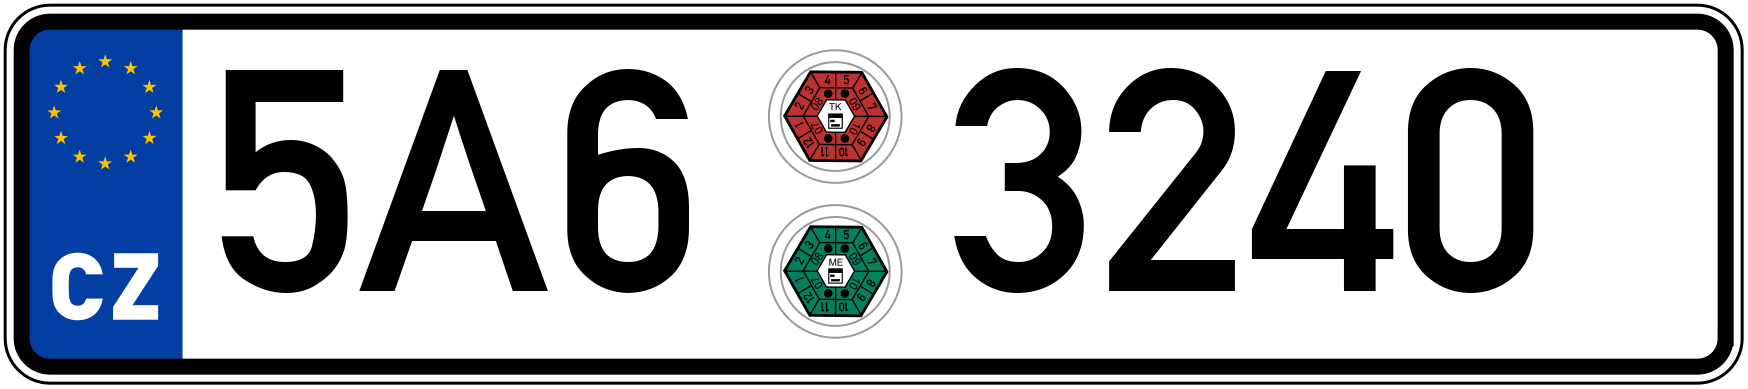
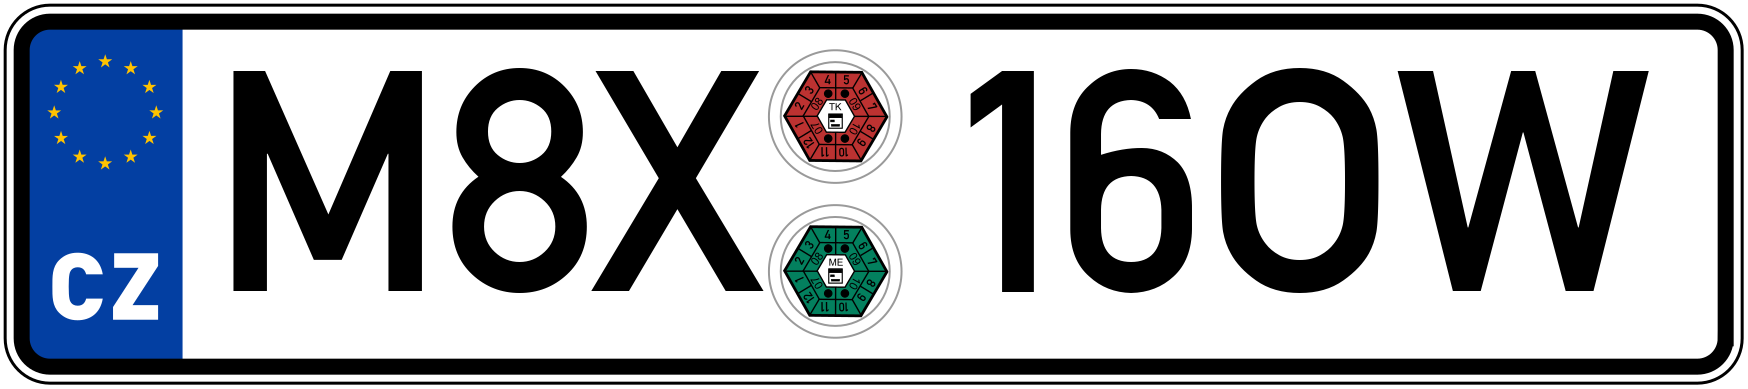
US shape license plates

Changed region(s): [[0.5252, 0.1542, 0.9577, 0.7712], [0.1236, 0.1542, 0.4325, 0.7712]]

diff --git a/licenseplate.py b/licenseplate.py
@@ -5,20 +5,28 @@ def rnd_str(l):
 	return ''.join(random.choices(string.ascii_uppercase + string.digits, k=l))
 
 # https://en.wikipedia.org/wiki/Vehicle_registration_plates_of_the_Czech_Republic
-image = Image.open('resources/CZ-number-plate-2004.png')
-draw = ImageDraw.Draw(image)
+
+
 font = ImageFont.truetype('resources/din1451alt.ttf', size=310)
 color = 'rgb(0, 0, 0)' # black
+part1 = rnd_str(3)
+part2 = rnd_str(4)
 
-(x, y) = (210, 0)
-message = rnd_str(3)
-#message = "5A6"
-draw.text((x, y), message, fill=color, font=font)
+#part1 = "5A6"
+#part2 = "3240"
 
+##########################################################
+image = Image.open('resources/CZ-number-plate-2004.png')
+draw = ImageDraw.Draw(image)
 
-(x, y) = (950, 0)
-message = rnd_str(4)
-#message = "3240"
-draw.text((x, y), message, fill=color, font=font)
-
+draw.text((210, 0), part1, fill=color, font=font)
+draw.text((950, 0), part2, fill=color, font=font)
 image.save('result.png')
+
+##########################################################
+image = Image.open('resources/CZ-number-plate-2004-US.png')
+draw = ImageDraw.Draw(image)
+
+draw.text((300, 0), part1, fill=color, font=font)
+draw.text((250, 350), part2, fill=color, font=font)
+image.save('resultUS.png')

diff --git a/README.md b/README.md
@@ -1,4 +1,4 @@
-# European License Plate Generator
+# License Plate Generator
 
 ## Setup
 
@@ -9,6 +9,11 @@ $ python3 licenseplate.py
 Results in:
 ![https://github.com/ebadi/licenseplategenerator](result.png)
 
+![https://github.com/ebadi/licenseplategenerator](resultUS.png)
+
 ### Credits
 
 This work is done by [Infotiv AB](https://www.infotiv.se) under [VALU3S](https://valu3s.eu) project. This project has received funding from the [ECSEL](https://www.ecsel.eu) Joint Undertaking (JU) under grant agreement No 876852. The JU receives support from the European Union’s Horizon 2020 research and innovation programme and Austria, Czech Republic, Germany, Ireland, Italy, Portugal, Spain, Sweden, Turkey.
+
+[License Plate Generator](https://github.com/ebadi/LicensePlateGenerator) project is started and is currently maintained by [Hamid Ebadi](https://github.com/ebadi).
+
